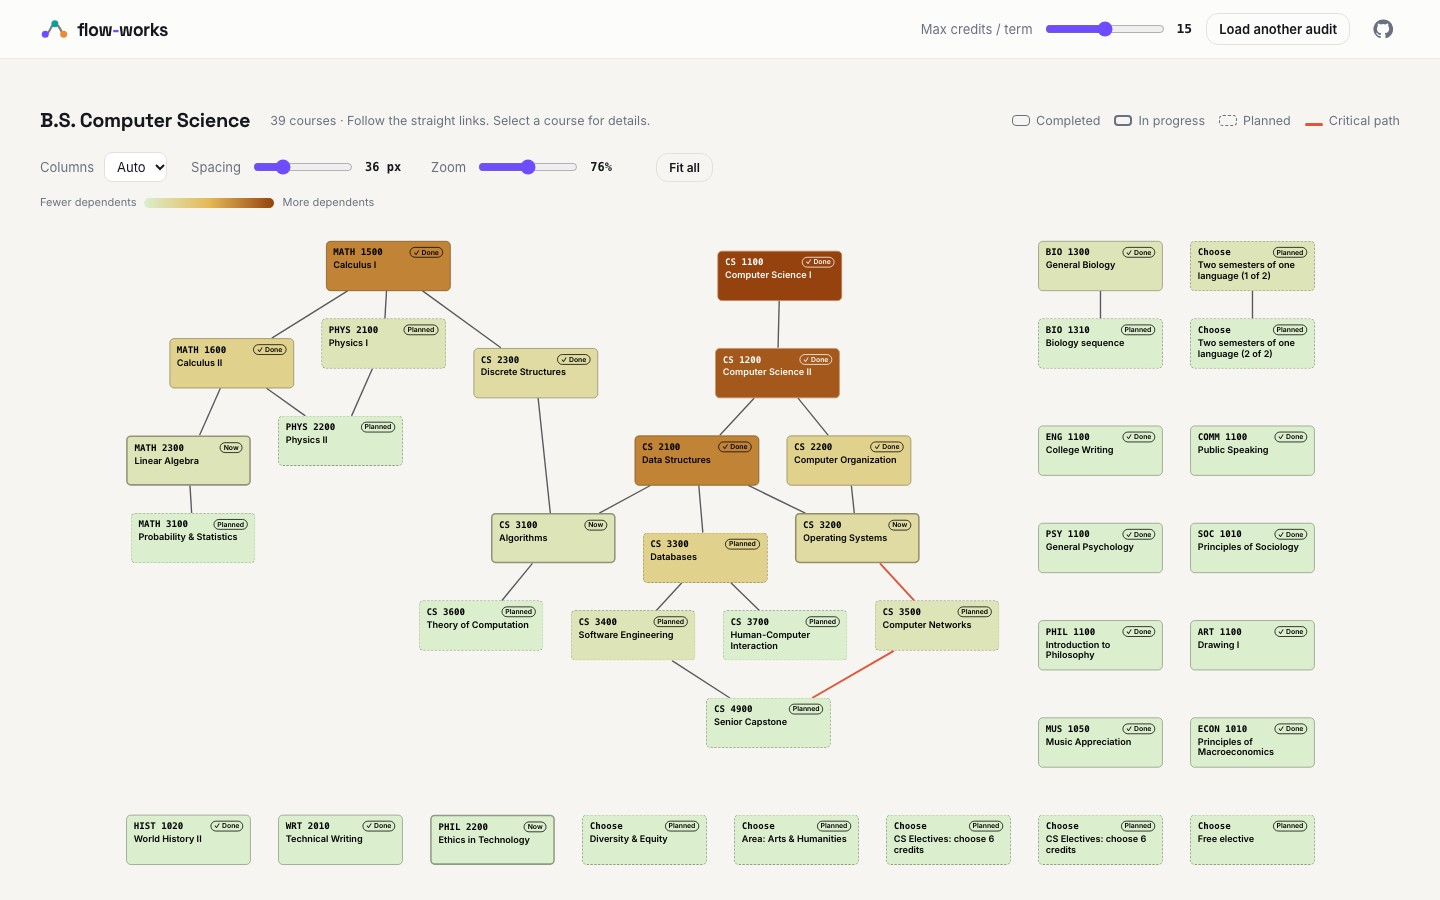
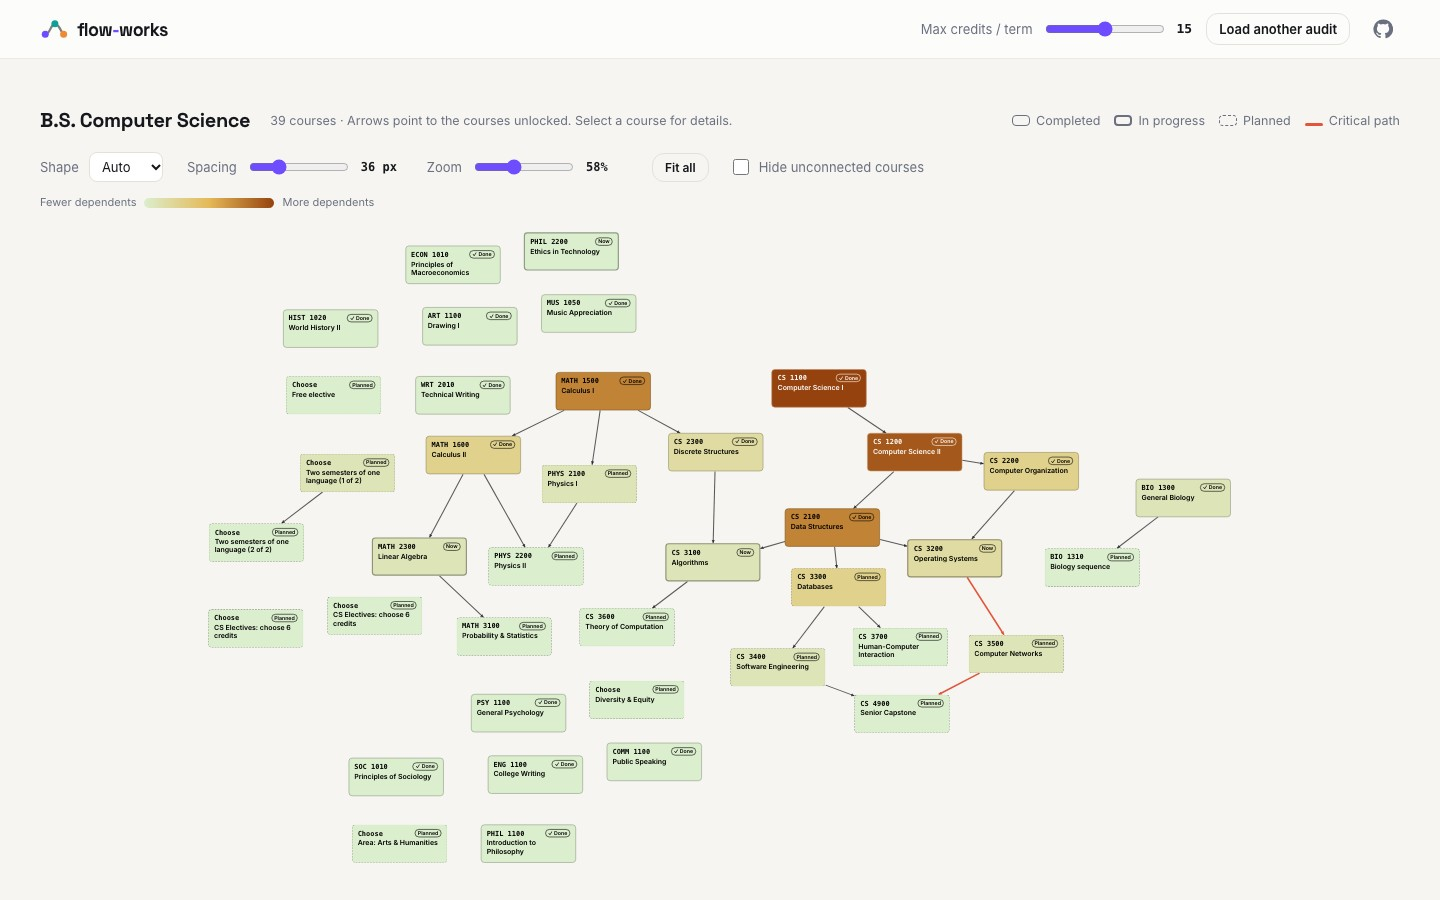
Group prerequisite courses into free spoke layouts

diff --git a/model.js b/model.js
@@ -259,6 +259,108 @@ export function degreeTree(a, width = 4, gap = 36) {
   return degreeDrawing(a, width, gap);
 }
 
+// Keep the planar connections, then gather neighbors around hubs without imposing rows or a flow direction.
+export function degreeScatter(a, gap = 36, aspect = 1.6) {
+  aspect = Math.max(.65, Math.min(2.2, aspect || 1.6));
+  const seed = degreeTree(a, 4, gap), visible = seed.nodes.filter(n => n.kind !== 'route');
+  const neighbors = new Map(visible.map(n => [n, []]));
+  for (const [p, c] of seed.links) { neighbors.get(p).push(c); neighbors.get(c).push(p); }
+  const unseen = new Set(visible), parts = [], unrelated = new Map();
+  while (unseen.size) {
+    const root = unseen.values().next().value;
+    if (!neighbors.get(root).length) {
+      const key = root.it.group || 'free';
+      if (!unrelated.has(key)) unrelated.set(key, []);
+      unrelated.get(key).push(root); unseen.delete(root); continue;
+    }
+    const members = new Set([root]); unseen.delete(root);
+    for (const n of members) for (const p of neighbors.get(n)) if (unseen.delete(p)) members.add(p);
+    const T = { nodes: [...members], links: seed.links.filter(([p]) => members.has(p)) };
+    gatherSpokes(T, gap, aspect, a.info || {}); parts.push(T);
+  }
+  const sx = 164 + gap, sy = 92 + gap, angle = Math.PI * (3 - Math.sqrt(5));
+  for (const cards of unrelated.values()) {
+    const T = { nodes: [], links: [] };
+    for (const n of cards) {
+      for (let i = 0;; i++) {
+        const radius = 40 * Math.sqrt(i);
+        n.x = Math.cos(i * angle) * radius * Math.sqrt(aspect) / sx;
+        n.level = Math.sin(i * angle) * radius / Math.sqrt(aspect) / sy;
+        if (!straightConflicts({ nodes: [...T.nodes, n], links: [] }, gap).length) break;
+      }
+      T.nodes.push(n);
+    }
+    parts.push(T);
+  }
+  const result = { nodes: [], links: [], scatter: true }, boxes = [];
+  for (const part of parts.sort((p, q) => q.links.length - p.links.length || q.nodes.length - p.nodes.length)) {
+    const x = (Math.min(...part.nodes.map(n => n.x)) + Math.max(...part.nodes.map(n => n.x))) / 2;
+    const y = (Math.min(...part.nodes.map(n => n.level)) + Math.max(...part.nodes.map(n => n.level))) / 2;
+    part.nodes.forEach(n => { n.x -= x; n.level -= y; });
+    const local = { left: Math.min(...part.nodes.map(n => n.x)) * sx - gap / 2, right: Math.max(...part.nodes.map(n => n.x)) * sx + 164 + gap / 2,
+      top: Math.min(...part.nodes.map(n => n.level)) * sy - gap / 2, bottom: Math.max(...part.nodes.map(n => n.level)) * sy + 66 + gap / 2 };
+    // shortcut: large charts keep cluster boxes separate; use polygon packing if real audits need tighter fits.
+    const large = visible.length > 70;
+    let chosen = [0, 0], best = Infinity;
+    for (let i = 0; result.nodes.length && i < 2400; i++) {
+      const radius = (large ? 60 : 30) * Math.sqrt(i), dx = Math.cos(i * angle) * radius * Math.sqrt(aspect) / sx, dy = Math.sin(i * angle) * radius / Math.sqrt(aspect) / sy;
+      part.nodes.forEach(n => { n.x += dx; n.level += dy; });
+      const T = { nodes: [...result.nodes, ...part.nodes], links: [...result.links, ...part.links] };
+      const w = (Math.max(...T.nodes.map(n => n.x)) - Math.min(...T.nodes.map(n => n.x))) * sx + 164;
+      const h = (Math.max(...T.nodes.map(n => n.level)) - Math.min(...T.nodes.map(n => n.level))) * sy + 66;
+      const size = Math.max(w / Math.sqrt(aspect), h * Math.sqrt(aspect));
+      const clear = large ? boxes.every(b => local.right + dx * sx <= b.left || local.left + dx * sx >= b.right || local.bottom + dy * sy <= b.top || local.top + dy * sy >= b.bottom)
+        : size < best && !straightConflicts(T, gap).length;
+      if (size < best && clear) { chosen = [dx, dy]; best = size; }
+      part.nodes.forEach(n => { n.x -= dx; n.level -= dy; });
+      if (Number.isFinite(best) && i > 150) break;
+    }
+    // A separate bounding rectangle is always a safe placement for a very large cluster.
+    if (result.nodes.length && !Number.isFinite(best)) chosen = [Math.max(...result.nodes.map(n => n.x)) - Math.min(...part.nodes.map(n => n.x)) + 2, 0];
+    part.nodes.forEach(n => { n.x += chosen[0]; n.level += chosen[1]; });
+    boxes.push({ left: local.left + chosen[0] * sx, right: local.right + chosen[0] * sx, top: local.top + chosen[1] * sy, bottom: local.bottom + chosen[1] * sy });
+    result.nodes.push(...part.nodes); result.links.push(...part.links);
+  }
+  if (result.nodes.length) {
+    const x = Math.min(...result.nodes.map(n => n.x + (1 - n.span) / 2)), y = Math.min(...result.nodes.map(n => n.level));
+    result.nodes.forEach(n => { n.x -= x; n.level -= y; });
+  }
+  return result;
+}
+
+function gatherSpokes(T, gap, aspect, info) {
+  const sx = 164 + gap, sy = 92 + gap, neighbors = new Map(T.nodes.map(n => [n, []]));
+  for (const [p, c] of T.links) { neighbors.get(p).push(c); neighbors.get(c).push(p); }
+  const importance = n => neighbors.get(n).length + (info[n.it.key]?.unlocks || 0) * .1;
+  const hub = T.nodes.reduce((p, q) => importance(p) >= importance(q) ? p : q), distance = new Map([[hub, 0]]);
+  for (const [n, d] of distance) for (const p of neighbors.get(n)) if (!distance.has(p)) distance.set(p, d + 1);
+  const branches = new Map(T.nodes.map(n => {
+    const group = new Set([n]);
+    for (const p of group) for (const [from, to] of T.links) if (from === p) group.add(to);
+    return [n, [...group]];
+  }));
+  const energy = () => {
+    let cost = T.links.reduce((sum, [p, c]) => sum + (Math.hypot((p.x - c.x) * sx, (p.level - c.level) * sy) / sx - 1) ** 2, 0);
+    for (const [n, d] of distance) cost += .2 * (Math.hypot((n.x - hub.x) * sx / Math.sqrt(aspect), (n.level - hub.level) * sy * Math.sqrt(aspect)) / sx - Math.sqrt(d)) ** 2;
+    for (const [n, kids] of neighbors) for (let i = 0; kids.length > 2 && i < kids.length; i++) for (const q of kids.slice(i + 1)) {
+      const p = kids[i], ax = (p.x - n.x) * sx, ay = (p.level - n.level) * sy, bx = (q.x - n.x) * sx, by = (q.level - n.level) * sy;
+      const dot = (ax * bx + ay * by) / (Math.hypot(ax, ay) * Math.hypot(bx, by));
+      cost += 4 * Math.max(0, dot - .6) ** 2;
+    }
+    return cost;
+  };
+  let best = energy();
+  for (let pass = 0; pass < Math.min(20, Math.ceil(180 / T.nodes.length)); pass++) for (const n of T.nodes)
+    for (const step of [.5, .25, .125]) for (let direction = 0; direction < 8; direction++) for (const branch of [false, true]) {
+      const group = branch ? branches.get(n) : [n], before = group.map(p => [p.x, p.level]);
+      const dx = Math.cos(direction * Math.PI / 4) * step, dy = Math.sin(direction * Math.PI / 4) * step * sx / sy;
+      for (const p of group) { p.x += dx; p.level += dy; }
+      const cost = energy();
+      if (cost < best - .001 && !straightConflicts(T, gap).length) best = cost;
+      else group.forEach((p, i) => { [p.x, p.level] = before[i]; });
+    }
+}
+
 function degreeDrawing(a, width, gap, seed = 0, search = true) {
   width = Math.max(2, Math.min(16, Math.round(width) || 4));
   let state = seed;

diff --git a/app.js b/app.js
@@ -1,4 +1,4 @@
-import { parseAudit, columns, analyze, degreeTree, courseTree, priorityColors, treeRoutes } from './model.js?v=chains2';
+import { parseAudit, columns, analyze, degreeScatter, courseTree, priorityColors, treeRoutes } from './model.js?v=spokes1';
 
 const $ = s => document.querySelector(s);
 const reduce = matchMedia('(prefers-reduced-motion: reduce)').matches;
@@ -16,9 +16,10 @@ function h(tag, attrs = {}, ...kids) {
   el.append(...kids.flat().filter(k => k != null && k !== false));
   return el;
 }
-const svg = (tag, attrs = {}) => {
+const svg = (tag, attrs = {}, ...children) => {
   const el = document.createElementNS('http://www.w3.org/2000/svg', tag);
   for (const k in attrs) el.setAttribute(k, attrs[k]);
+  el.append(...children);
   return el;
 };
 
@@ -153,9 +154,9 @@ function board() {
   const total = Object.keys(A.byKey).length, hide = $('#hide-unconnected').checked;
   const linked = new Set(A.edges.flatMap(e => [e.from, e.to]));
   const byKey = Object.fromEntries(Object.entries(A.byKey).filter(([key]) => !hide || linked.has(key)));
-  const graph = { byKey, edges: A.edges.filter(e => byKey[e.from] && byKey[e.to]) }, count = Object.keys(byKey).length;
+  const graph = { byKey, edges: A.edges.filter(e => byKey[e.from] && byKey[e.to]), info: A.info }, count = Object.keys(byKey).length;
   $('#viewnote').textContent = count
-    ? `${count === total ? plural(count, 'course') : `${count} of ${total} courses`} · Follow the straight links. Select a course for details.`
+    ? `${count === total ? plural(count, 'course') : `${count} of ${total} courses`} · Arrows point to the courses unlocked. Select a course for details.`
     : total ? 'No courses have prerequisite connections. Clear the hide option to show all courses.' : 'No courses were included in this audit.';
   const pane = $('#board');
   pane.hidden = !count;
@@ -163,17 +164,8 @@ function board() {
   if (!count) { $('#track').replaceChildren(); insights(); return; }
   pane.style.height = Math.max(240, innerHeight - (pane.getBoundingClientRect().top + scrollY) - 16) + 'px';
   const size = chartSpace();
-  let T;
-  if ($('#layout-width').value === 'auto') {
-    let best = -1, unique = false;
-    for (const width of [2, 4, 8, 12, 16]) {
-      const candidate = degreeTree(graph, width, +$('#layout-spacing').value), { width: w, height: ht } = treeSize(candidate);
-      const refs = candidate.nodes.filter(n => n.kind === 'reference').length;
-      const score = Math.min(1, size.width / w, size.height / ht) / (1 + refs * .15);
-      if (!refs && !unique || (!unique || !refs) && score > best) { T = candidate; best = score; unique = refs === 0; }
-      if (unique && best === 1) break;
-    }
-  } else T = degreeTree(graph, +$('#layout-width').value, +$('#layout-spacing').value);
+  const shape = $('#layout-shape').value, aspect = shape === 'round' ? 1 : shape === 'wide' ? 2.2 : size.width / size.height;
+  const T = degreeScatter(graph, +$('#layout-spacing').value, aspect);
   const references = T.nodes.filter(n => n.kind === 'reference').length;
   if (references) $('#viewnote').textContent += ` ${plural(references, 'course reference')} keep connections from crossing.`;
   pane.style.height = Math.max(240, innerHeight - (pane.getBoundingClientRect().top + scrollY) - 16) + 'px';
@@ -238,6 +230,7 @@ const focusGroup = id => light(new Set(Object.values(A.byKey).filter(x => x.grou
 // ---------- course modal: prerequisite flowchart ----------
 
 const TW = 200, TH = 92, TGX = 20, TGY = 56; // tree card size and gaps
+let arrowId = 0;
 let trail = [];
 
 // Courses outside the chart (e.g. a prerequisite you never took) still open, from the prerequisite data alone.
@@ -294,6 +287,9 @@ function tree(T, rootIt) {
   const at = n => [(n.x - minX) * (cw + gx) + pad, (n.level - minL) * (ch + gy) + py];
   const box = h('div', { class: `tree${rootIt ? '' : ' overview'}`, style: `width:${Wd}px;height:${Ht}px` });
   const lines = svg('svg', { class: 'tree-lines', width: Wd, height: Ht, 'aria-hidden': 'true' });
+  const arrow = 'course-arrow-' + ++arrowId;
+  if (T.scatter) lines.append(svg('defs', {}, svg('marker', { id: arrow, viewBox: '0 0 6 6', refX: 6, refY: 3,
+    markerWidth: 6, markerHeight: 6, markerUnits: 'userSpaceOnUse', orient: 'auto' }, svg('polygon', { points: '0,0 6,3 0,6', fill: 'context-stroke' }))));
   const state = n => n.kind === 'or' ? (n.options.find(o => o.code === n.pick)?.it?.status || 'missing') : n.it?.status || 'missing';
   const ring = n => Math.abs(n.level);
   const critLinks = new Set(A.critical.slice(1).map((k, i) => A.critical[i] + '>' + k));
@@ -303,6 +299,7 @@ function tree(T, rootIt) {
       ? [A.byKey[to].status === 'planned' && 'planned', critLinks.has(from + '>' + to) && 'crit'].filter(Boolean).join(' ')
       : state(up) === 'missing' ? 'miss' : state(down) === 'planned' ? 'planned' : '';
     const p = svg('path', { d: routes[i].d, class: cls,
+      ...(T.scatter ? { 'marker-end': `url(#${arrow})` } : {}),
       'data-from': from || '', 'data-to': to || '',
       style: '--c:var(--muted)' });
     lines.append(p);
@@ -333,9 +330,7 @@ function tree(T, rootIt) {
     }
     if (n.more) el.append(h('span', { class: 'more ' + (n.level < 0 ? 'up' : 'down') }, `+${n.more} more`));
     box.append(el);
-    if (!reduce) el.animate(n.level === 0
-      ? [{ opacity: 0, transform: 'scale(.92)' }, { opacity: 1, transform: 'none' }]
-      : [{ opacity: 0, transform: `translateY(${n.level < 0 ? 14 : -14}px)` }, { opacity: 1, transform: 'none' }],
+    if (!reduce) el.animate([{ opacity: 0 }, { opacity: 1 }],
     { duration: 450, delay: Math.min(ring(n), 4) * 100, easing: EASE, fill: 'backwards' });
   }
   return box;
@@ -410,10 +405,9 @@ for (const id of ['layout-spacing', 'chart-zoom']) {
     else board();
   });
 }
-// Auto is the default for existing users too; a manually chosen column count is remembered separately.
-$('#layout-width').value = store.get('flowworks:columns') || 'auto';
-if (!$('#layout-width').value) $('#layout-width').value = 'auto';
-$('#layout-width').addEventListener('change', () => { store.set('flowworks:columns', $('#layout-width').value); board(); });
+$('#layout-shape').value = store.get('flowworks:shape') || 'auto';
+if (!$('#layout-shape').value) $('#layout-shape').value = 'auto';
+$('#layout-shape').addEventListener('change', () => { store.set('flowworks:shape', $('#layout-shape').value); board(); });
 $('#hide-unconnected').checked = store.get('flowworks:hide-unconnected') === '1';
 $('#hide-unconnected').addEventListener('change', () => { store.set('flowworks:hide-unconnected', $('#hide-unconnected').checked ? '1' : '0'); board(); });
 $('#fit-chart').addEventListener('click', () => {

diff --git a/index.html b/index.html
@@ -4,7 +4,7 @@
 <meta charset="utf-8">
 <meta name="viewport" content="width=device-width, initial-scale=1">
 <title>Flow-works: your degree as a flowchart</title>
-<meta name="description" content="Turn your Degree Works audit into an top-to-bottom prerequisite flowchart. Open source; runs entirely in your browser.">
+<meta name="description" content="Turn your Degree Works audit into a map of course chains and bottlenecks. Open source; runs entirely in your browser.">
 <meta property="og:title" content="Flow-works">
 <meta property="og:description" content="Your Degree Works audit, as an animated flowchart.">
 <meta property="og:image" content="docs/overview.jpg">
@@ -12,8 +12,8 @@
 <link rel="preconnect" href="https://fonts.googleapis.com">
 <link rel="preconnect" href="https://fonts.gstatic.com" crossorigin>
 <link rel="stylesheet" href="https://fonts.googleapis.com/css2?family=Inter:wght@400;500;600;700&family=Space+Grotesk:wght@500;600;700&display=swap">
-<link rel="stylesheet" href="style.css?v=chains2">
-<script type="module" src="app.js?v=chains2"></script>
+<link rel="stylesheet" href="style.css?v=spokes1">
+<script type="module" src="app.js?v=spokes1"></script>
 </head>
 <body>
 <svg width="0" height="0" style="position:absolute" aria-hidden="true">
@@ -47,7 +47,7 @@
     <div class="copy">
       <p class="eyebrow">Open source · for Degree Works students</p>
       <h1>Your degree,<br><em>as a flowchart.</em></h1>
-      <p class="lede">Flow-works turns your Degree Works audit into a top-to-bottom map of what you've finished, what you're taking now, and what comes next. Select any course to see its prerequisites and what it unlocks.</p>
+      <p class="lede">Flow-works turns your Degree Works audit into a map of what you've finished, what you're taking now, and what comes next. Select any course to see its prerequisites and what it unlocks.</p>
       <ol class="steps">
         <li><a id="bm" class="bm" href="#" title="Drag me to your bookmarks bar"><svg><use href="#logo"/></svg>Flow-works</a><span><b>Drag this button</b> to your bookmarks bar.</span></li>
         <li><span><b>Open your Degree Works worksheet</b> and sign in as usual.</span></li>
@@ -102,7 +102,7 @@
     <span class="keys"><span><i class="k done"></i>Completed</span><span><i class="k current"></i>In progress</span><span><i class="k planned"></i>Planned</span><span><i class="k crit"></i>Critical path</span></span>
   </div>
   <div id="chart-controls" class="chart-controls" role="group" aria-label="Flowchart layout">
-    <label for="layout-width">Columns <select id="layout-width"><option value="auto">Auto</option><option value="2">2</option><option value="3">3</option><option value="4">4</option><option value="5">5</option><option value="6">6</option><option value="7">7</option><option value="8">8</option><option value="9">9</option><option value="10">10</option><option value="11">11</option><option value="12">12</option><option value="13">13</option><option value="14">14</option><option value="15">15</option><option value="16">16</option></select></label>
+    <label for="layout-shape">Shape <select id="layout-shape"><option value="auto">Auto</option><option value="round">Round</option><option value="wide">Wide</option></select></label>
     <label for="layout-spacing">Spacing <input id="layout-spacing" type="range" min="20" max="80" step="4" value="36"><output id="layout-spacing-out" for="layout-spacing">36</output></label>
     <label for="chart-zoom">Zoom <input id="chart-zoom" type="range" min="1" max="150" step="1" value="100"><output id="chart-zoom-out" for="chart-zoom">100%</output></label>
     <button id="fit-chart" class="btn ghost" type="button">Fit all</button>

diff --git a/README.md b/README.md
@@ -2,7 +2,7 @@
 
 **Your Degree Works audit, as a readable flowchart.**
 
-Flow-works turns an Ellucian Degree Works audit into a top-to-bottom prerequisite map: what you've finished, what you're taking now, and a suggested term for everything left. Select any course to focus on its prerequisites and the courses it unlocks.
+Flow-works turns an Ellucian Degree Works audit into a map of prerequisite chains: what you've finished, what you're taking now, and a suggested term for everything left. Select any course to focus on its prerequisites and the courses it unlocks.
 
 **[Try the live demo →](https://frostdev-ops.github.io/flow-works/#demo)**
 
@@ -10,13 +10,13 @@ Flow-works turns an Ellucian Degree Works audit into a top-to-bottom prerequisit
 
 ## The flowchart
 
-The whole degree fits into one canvas on load, including courses without prerequisite links. Branches stay close together, their starting courses sit above the fork, and shared prerequisites appear once. Courses can stagger instead of stretching every branch to the same row. Rows are not terms.
+The whole degree fits into one canvas on load, including courses without prerequisite links. Connected courses gather around the courses that link the most branches. Related chains stay close together in a free arrangement, with shared prerequisites appearing once. Unconnected requirements stay grouped by degree requirement and can be hidden.
 
-Connections are single straight lines attached to the facing edges of each card. Card placement follows the chains and joins, with room reserved for longer links. The layout checks actual segments for crossings, overlaps, and card collisions. Shared joins get a second search that rearranges entire branches and tries different starting orders before using references. When a dense graph cannot fit cleanly, a small course-code reference replaces an endpoint and opens that course’s existing full card. Every prerequisite relationship remains available.
+Connections are single straight arrows attached to the facing edges of each card. Arrows point from a prerequisite to the course it unlocks. Card placement follows the chains and joins, with room reserved for longer links. The layout checks actual segments for crossings, overlaps, and card collisions. Shared joins get a second search that rearranges entire branches and tries different starting orders before using references. When a dense graph cannot fit cleanly, a small course-code reference replaces an endpoint and opens that course’s existing full card. Every prerequisite relationship remains available.
 
 Card color shows how many later courses depend on a course, directly or through another prerequisite: **dark orange for the biggest bottlenecks, through amber to green for fewer dependents**. Each downstream course counts once, even when several paths lead to it. Completed courses retain their dependency color and have a Done badge. Compact cards show the course code, title, and status. Select a card for its term and dependency count.
 
-**Columns: Auto** prefers a layout with unique cards whenever it finds one, then balances the chart for your screen. Choose a column count or change **Spacing** to arrange it yourself. **Fit all** fits both width and height; **Zoom** lets you inspect more closely. **Hide unconnected courses** removes only cards without prerequisite connections; starting courses and shared prerequisites stay visible. Layout and visibility preferences stay in your browser. Very large degrees fit at a smaller scale; select any course to read its details at full size.
+**Shape: Auto** fits the course groups to your screen. Choose **Round** for a wheel or **Wide** for a wider arrangement. **Spacing** controls how closely the cards gather. **Fit all** fits both width and height; **Zoom** lets you inspect more closely. **Hide unconnected courses** removes only cards without prerequisite connections; starting courses and shared prerequisites stay visible. Layout and visibility preferences stay in your browser. Very large degrees fit at a smaller scale; select any course to read its details at full size.
 
 Hover or keyboard-focus a course to trace its prerequisites and what it unlocks. Click it to open its prerequisite tree and the courses that follow it, with breadcrumbs back. Degree progress and requirement groups are available just below the canvas.
 
